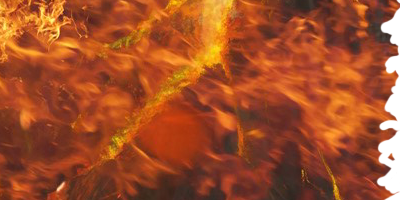
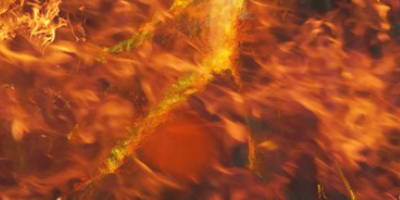
pictfix

diff --git a/css/stylex.css b/css/stylex.css
@@ -197,29 +197,14 @@ body {
     position: absolute;
     border-radius: 15px;
     box-shadow: 0 0 100px rgb(176, 130, 130);
-    opacity: 100%;
+    opacity: 85%;
     display: var(--herodisp);
 
     
   
   }
 
-  #fadecanv {
-    margin: 20px;
-    border: 3px solid black;
-    display: flex;
-    position: absolute;
-    left: 33%;
-    top: 25%;
-    border-radius: 15px;
-    box-shadow: 0 0 100px rgb(176, 130, 130);
-    /* animation-name: yourmyanimation;
-    animation-duration: 1s; */
-    opacity: 100%;
 
-    
-  
-  }
 
 
 .main-canvas:hover {
@@ -637,7 +622,7 @@ body {
 }
 
 
-@keyframes mover {
+/* @keyframes mover {
     0% {
         top: -1%;
         box-shadow: 0 0 25px rgb(244, 122, 16);
@@ -690,7 +675,7 @@ body {
     }
   
    
-}
+} */
 
 
 @keyframes visix {

diff --git a/classes.js b/classes.js
@@ -1337,8 +1337,8 @@ export function axeThrow() {
 
 
     if (heroin.charged == true && heroin.rev == false && risk == 0) {
-        heroin.charged = false;
-        heroin.ulti = 0;
+        // heroin.charged = false;
+        // heroin.ulti = 0;
         heroPower()
         clearHero()
         reMap()
@@ -1371,8 +1371,8 @@ export function axeThrow() {
 
     }
     if (heroin.charged == true && heroin.rev == true && risk == 0) {
-        heroin.charged = false;
-        heroin.ulti = 0;
+        // heroin.charged = false;
+        // heroin.ulti = 0;
         heroPower()
         clearHero()
         reMap()

diff --git a/cssmod.js b/cssmod.js
@@ -71,7 +71,7 @@ export function heroPower(){
     }
     if(heroin.ulti == 7){
         r.style
-        .setProperty('--ultibarx', '98%')
+        .setProperty('--ultibarx', '100%')
         r.style
         .setProperty('--bardisp', '60%')
         r.style

diff --git a/game.html b/game.html
@@ -15,13 +15,8 @@
   #canvas {
     float: left;
     border: 3px black solid;
-    opacity: 95%;
   }
-  #fadecanv {
-    float: left;
-    border: 3px black solid;
-    opacity: 95%;
-  }
+
 </style>
 
 
